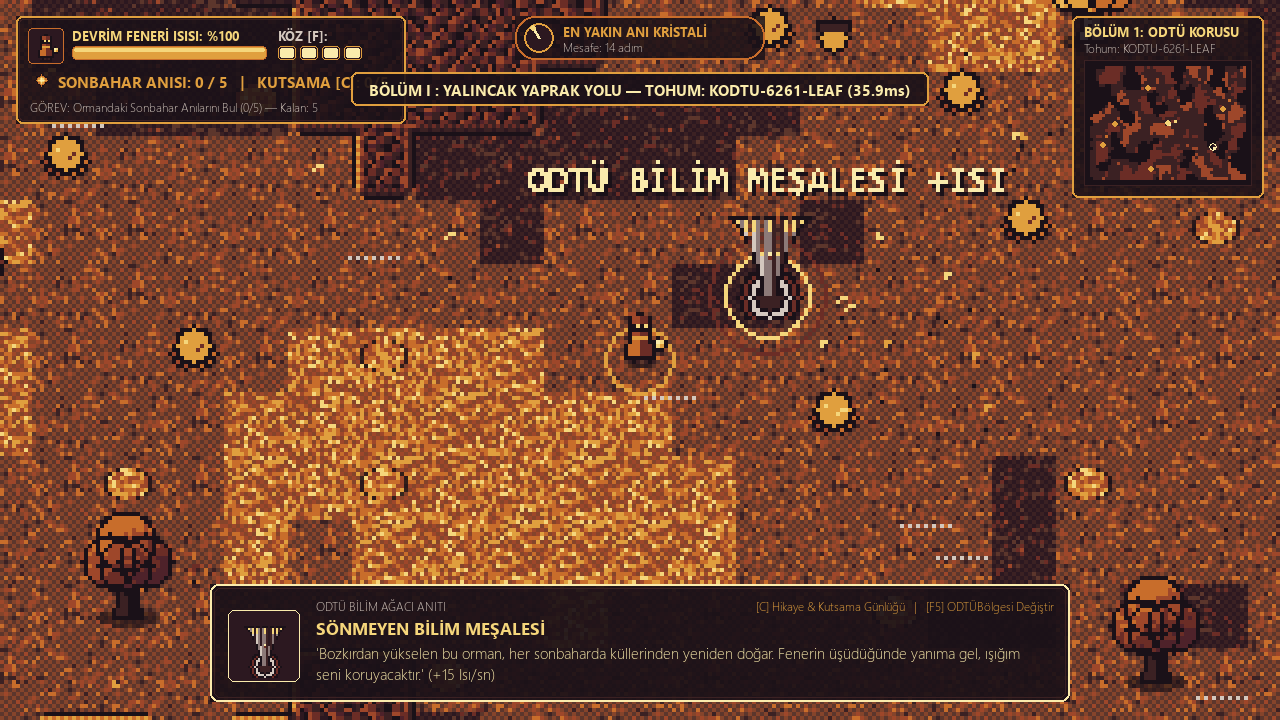
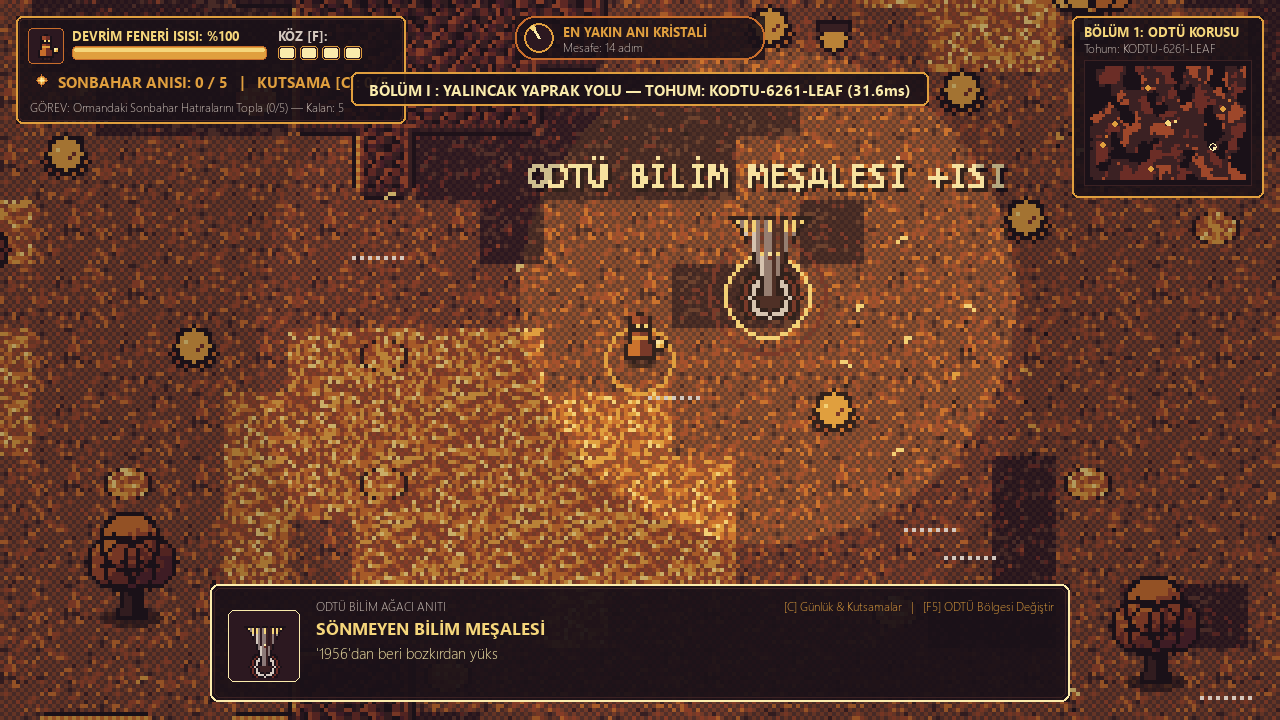
feat(narrative-lighting): typewriter dialogue, rich ODTÜ lore, boss encounters & dynamic lantern vignette

diff --git a/src/core/story.py b/src/core/story.py
@@ -21,51 +21,67 @@ class DialogueEntry:
     speaker: str
     title: str
     text: str
-    duration: float = 6.5
+    duration: float = 7.0
     accent_type: str = "gold"  # 'gold', 'birch', 'crimson'
+    avatar_key: str = "player"  # 'bilim_agaci', 'relic', 'campfire', 'player', 'warden'
+    chars_revealed: int = 0
+    typewriter_speed: float = 45.0  # characters per second
 
 
 CHAPTER_INFO: Dict[int, Tuple[str, str, str]] = {
     1: (
         "BÖLÜM I : YALINCAK YAPRAK YOLU",
-        "Bozkır ayazı ODTÜ ormanına erken çöktü. Bilim Ağacı'nın meşalesinden aldığın "
-        "ışıkla, her adımda yeniden şekillenen koruda kaybolmuş 5 Sonbahar Anısını bul.",
-        "Görev: 5 Sonbahar Anısını (Kristal) topla ve Kadim Tapınağa [E] ulaş.",
+        "1956'dan beri bozkırdan ellerle yeşertilen ulu ODTÜ ormanına ansızın dondurucu bir alacakaranlık sisi çöktü. "
+        "Yalıncak patikasında yapraklar hızla dökülürken, Bilim Ağacı'nın kadim meşalesinden aldığın köz feneriyle "
+        "ormanın dağılmış 5 Sonbahar Hatırasını topla ve tapınağı uyandır.",
+        "Görev: 5 Sonbahar Hatırası Kristalini topla, fenerini sıcak tut ve Kadim Tapınağa [E] ulaş.",
     ),
     2: (
         "BÖLÜM II : EYMİR'İN SİSLİ KIYILARI",
-        "İlk koru yeniden ısındı! Şimdi Eymir'in sisli sularına inen prosedürel patikaları "
-        "ve ahşap köprüleri takip ederek unutulmuş hatıraları birleştir.",
-        "Görev: Sisli kıyılardaki 5 Sonbahar Anısını topla ve Tapınağı uyandır.",
+        "İlk korunun yaprakları ısındı! Şimdi Eymir Gölü'nün bataklık sazlıklarına ve prosedürel ahşap iskelelerine "
+        "inme vakti. Suyun üzerinde asılı kalan alacakaranlık fısıltılarına kulak ver; gölgeler soğuk üflerken "
+        "sadece köz fenerinin ışığı göl kıyısındaki kadim bilgiyi koruyabilir.",
+        "Görev: Eymir'in sisli kıyılarındaki 5 Sonbahar Hatırasını bul ve karanlık orbları yansıtarak tapınağı aç.",
     ),
     3: (
         "BÖLÜM III : DEVRİM KORUSU VE SONBAHAR KALBİ",
-        "Alacakaranlık muhafızları Kadim Tapınağın etrafında toplanıyor. Fenerinin "
-        "sonbahar ateşiyle gölgeleri dağıt ve ODTÜ Ormanı'na sıcaklığı geri getir!",
-        "Görev: Son 5 Sonbahar Anısını topla ve Sonbahar Kalbini mühürle.",
+        "Devrim Stadyumu'nun çam ve meşe korusuna ulaştın! Ormanın en kadim bekçisi Elder Stag Warden ve gölge ordusu, "
+        "Sonbaharın Son Işığı'nı bozkır ayazına hapsetmek üzere. Fenerinin tüm kutsamalarını birleştir, "
+        "son anıları mühürle ve ebedi sonbahar ahengini tüm kampüse geri kazandır!",
+        "Görev: Devrim Korusu'ndaki son 5 hatırayı birleştir, Orman Bekçisiyle yüzleş ve Sonbahar Kalbini yak.",
     ),
 }
 
-RELIC_STORY_FRAGMENTS: List[Tuple[str, str]] = [
+RELIC_STORY_FRAGMENTS: List[Tuple[str, str, str]] = [
     (
         "İLK TOHUMUN HATIRASI (Anı 1/5)",
-        "1960'ların bozkırında toprağa düşen ilk fidanın yaprağı... Fenerin daha parlak yanıyor!",
+        "1956 güzünde bozkır rüzgarına emanet edilen ilk meşe palamudunun anısı... "
+        "'Bir fidan bin inançtır.' Fenerinin alevi pas rengi kıvılcımlarla parıldadı!",
+        "bilim_agaci",
     ),
     (
-        "YALINCAK RÜZGARININ MELODİSİ (Anı 2/5)",
-        "Sarı huş yapraklarının rüzgarda fısıldadığı eski bir öğrenci türküsü yankılandı.",
+        "YALINCAK RÜZGARININ TÜRKÜSÜ (Anı 2/5)",
+        "Altın huş yapraklarının savrulurken söylediği eski bir öğrenci marşı kulaklarında yankılandı: "
+        "'Bu orman teslim olmaz, her sonbahar yeni bir bahara gebe kalır!' [Hız +%18]",
+        "relic",
     ),
     (
-        "EYMİR SABAH SİSİ (Anı 3/5)",
-        "Göl yüzeyinden yükselen kehribar rengi sabah buğusu, fenerinin çatlaklarını onardı.",
+        "EYMİR SİSİ VE BİLİM MEŞALESİ (Anı 3/5)",
+        "Göl yüzeyindeki kehribar rengi sabah buğusu, fenerinin çatlaklarını güneş ısıyla doldurdu. "
+        "Gölün derinliklerindeki su nilüferleri altın köz saçarak seni selamladı.",
+        "bilim_agaci",
     ),
     (
-        "DEVRİM MEŞALESİNİN KIVILCIMI (Anı 4/5)",
-        "Stadyum basamaklarında yankılanan coşku, karanlık orman gölgelerini geri püskürttü!",
+        "DEVRİM STADYUMU KIVILCIMI (Anı 4/5)",
+        "Tarihin taşa ve çime kazındığı basamaklardan yükselen sönmeyen inanç dalgası! "
+        "Fenerinden fırlayan Solar Ember mermileri artık 3'lü yaylım halinde gölgeleri yarıyor!",
+        "player",
     ),
     (
         "SONBAHARIN SON IŞIĞI (Anı 5/5)",
-        "Tüm Sonbahar Anıları birleşti! Artık Kadim Tapınağa [E] giderek yeni korunun kapısını açabilirsin.",
+        "Tüm parçalar birleşti! ODTÜ ormanının bozkıra karşı verdiği yarım asırlık direniş fenerinde vücut buldu. "
+        "Artık Kadim Tapınağa [E] dön ve yeni korunun gizemli geçidini sonsuzluğa aç!",
+        "relic",
     ),
 ]
 
@@ -107,6 +123,7 @@ class StoryManager:
         text: str,
         duration: float = 6.0,
         accent_type: str = "gold",
+        avatar_key: str = "player",
         once_key: Optional[str] = None,
     ) -> None:
         if once_key is not None:
@@ -119,30 +136,34 @@ class StoryManager:
             text=text,
             duration=duration,
             accent_type=accent_type,
+            avatar_key=avatar_key,
+            chars_revealed=0,
         )
         self.dialogue_timer = duration
 
     def on_relic_collected(self, current_count: int, total_count: int, boon_title: Optional[str] = None) -> None:
         idx = max(0, min(len(RELIC_STORY_FRAGMENTS) - 1, current_count - 1))
-        frag_title, frag_text = RELIC_STORY_FRAGMENTS[idx]
+        frag_title, frag_text, avatar = RELIC_STORY_FRAGMENTS[idx]
         if boon_title:
-            frag_text += f" [Yeni Kutsama: {boon_title}]"
+            frag_text += f" [Yeni ODTÜ Kutsaması: {boon_title}]"
         self.trigger_dialogue(
-            speaker=f"SONBAHAR ANISI ({current_count}/{total_count})",
+            speaker=f"SONBAHAR HATIRASI ({current_count}/{total_count})",
             title=frag_title,
             text=frag_text,
-            duration=6.5,
+            duration=7.2,
             accent_type="birch" if current_count >= total_count else "gold",
+            avatar_key=avatar,
         )
 
     def on_near_bilim_agaci(self) -> None:
         self.trigger_dialogue(
             speaker="ODTÜ BİLİM AĞACI ANITI",
             title="SÖNMEYEN BİLİM MEŞALESİ",
-            text="'Bozkırdan yükselen bu orman, her sonbaharda küllerinden yeniden doğar. "
-            "Fenerin üşüdüğünde yanıma gel, ışığım seni koruyacaktır.' (+15 Isı/sn)",
-            duration=6.0,
+            text="'1956'dan beri bozkırdan yükselen bu orman, her sonbaharda küllerinden yeniden doğar. "
+            "Fenerin üşüdüğünde yanıma gel; bilgi ve dayanışmanın meşalesi fenerini koruyacaktır.' (+15 Isı/sn)",
+            duration=6.5,
             accent_type="birch",
+            avatar_key="bilim_agaci",
             once_key="bilim_agaci_intro",
         )
 
@@ -150,21 +171,42 @@ class StoryManager:
         self.trigger_dialogue(
             speaker="ORMANCI KAMP ATEŞİ",
             title="SICAK KÖZ DURAĞI",
-            text="Çıtırdayan kestane dalları fenerinin ısısını yeniliyor. "
-            "Yolculuğa devam etmeden önce soluklanmak için güvenli bir nokta.",
-            duration=5.0,
+            text="Çıtırdayan kestane dalları ve meşe kökleri fenerinin ısısını tazeliyor. "
+            "Yalıncak ve Eymir yollarında ilerlemeden önce soluklanmak için güvenli bir sığınak.",
+            duration=5.5,
             accent_type="gold",
+            avatar_key="campfire",
             once_key="campfire_intro",
+        )
+
+    def on_boss_encounter(self) -> None:
+        self.trigger_dialogue(
+            speaker="KADİM GEYİK (ELDER STAG WARDEN)",
+            title="ORMANIN KORUYUCU RUHU",
+            text="'Bozkırın kış uykusu yaklaşırken közünü söndürmeyeceğim, onu sınayacağım! "
+            "Kılıcınla gölge kürelerimi yansıt ve sonbaharın ışığına layık olduğunu kanıtla!'",
+            duration=6.8,
+            accent_type="crimson",
+            avatar_key="warden",
+            once_key="boss_encounter",
         )
 
     def get_current_objective_text(self, relics_collected: int, total_relics: int) -> str:
         if relics_collected >= total_relics:
-            return "GÖREV: Tüm Anılar Toplandı! Pusulayı takip et ve Kadim Tapınakta [E] tuşuna bas."
+            return "GÖREV: Tüm Hatıralar Toplandı! Pusulayı takip et ve Kadim Tapınakta [E] ile yeni koruyu aç."
         rem = total_relics - relics_collected
-        return f"GÖREV: Ormandaki Sonbahar Anılarını Bul ({relics_collected}/{total_relics}) — Kalan: {rem}"
+        return f"GÖREV: Ormandaki Sonbahar Hatıralarını Topla ({relics_collected}/{total_relics}) — Kalan: {rem}"
 
     def update(self, dt: float) -> None:
         if self.dialogue_timer > 0.0:
             self.dialogue_timer = max(0.0, self.dialogue_timer - dt)
+            if self.active_dialogue is not None:
+                # Progressive typewriter reveal
+                tot_chars = len(self.active_dialogue.text)
+                if self.active_dialogue.chars_revealed < tot_chars:
+                    add = max(1, int(round(self.active_dialogue.typewriter_speed * dt)))
+                    self.active_dialogue.chars_revealed = min(
+                        tot_chars, self.active_dialogue.chars_revealed + add
+                    )
             if self.dialogue_timer <= 0.0:
                 self.active_dialogue = None

diff --git a/src/rendering/renderer.py b/src/rendering/renderer.py
@@ -329,16 +329,56 @@ class WorldRenderer:
                 if 0 <= fsx < NATIVE_WIDTH and 0 <= fsy < NATIVE_HEIGHT:
                     self.font.draw_text(canvas, ft.text, fsx, fsy - 14, ft.color, align_center=True)
 
-        # 6. Subtle Drifting Autumn Mist (#D4C8BE) wisps near top/bottom edges
+        # 6. Dynamic Lantern Vignette & Atmospheric Autumn Lighting Pass
+        self._render_autumn_lantern_vignette(canvas, camera, player, world, time_sec)
+
+        # 7. Subtle Drifting Autumn Mist (#D4C8BE) wisps near top/bottom edges
         self._render_autumn_mist_wisps(canvas, camera.x, camera.y, time_sec)
 
-        # 7. If [F2] Bitmask & Grid Debug is active, render crisp grid, chunk bounds, bitmask IDs & colliders
+        # 8. If [F2] Bitmask & Grid Debug is active, render crisp grid, chunk bounds, bitmask IDs & colliders
         if debug_mode == DEBUG_BITMASK_GRID:
             self._render_f2_bitmask_grid_overlay(
                 canvas, world, camera, spatial_hash, player, enemies, visible_props, x0, y0, x1, y1
             )
 
         self.last_draw_calls = draw_calls
+
+    def _render_autumn_lantern_vignette(
+        self,
+        canvas: pygame.Surface,
+        camera: PixelCamera,
+        player: Player,
+        world: WorldData,
+        time_sec: float,
+    ) -> None:
+        """
+        Applies a modern cinematic autumn lighting vignette with a warm lantern glow
+        centered on the player and structures (Bilim Ağacı & Campfire), transitioning
+        toward atmospheric Deep Void (#1A1118) and Plum Shadow (#2C1820) at viewport edges.
+        """
+        vignette = pygame.Surface((NATIVE_WIDTH, NATIVE_HEIGHT), pygame.SRCALPHA)
+        # Deep atmospheric edge shadows
+        vignette.fill((*DEEP_VOID, 78))
+
+        # Cut out soft warm radial halos around light sources
+        pl_sx, pl_sy = camera.world_to_screen(player.x * TILE_SIZE, player.y * TILE_SIZE)
+        halo_radius = int(round(56.0 + 4.0 * math.sin(time_sec * 3.5)))
+        # Warm inner glow around player
+        pygame.draw.circle(vignette, (*PALE_SUNBEAM, 0), (pl_sx, pl_sy - 4), halo_radius)
+        pygame.draw.circle(vignette, (*HARVEST_GOLD, 25), (pl_sx, pl_sy - 4), halo_radius + 18)
+        pygame.draw.circle(vignette, (*PLUM_SHADOW, 55), (pl_sx, pl_sy - 4), halo_radius + 36)
+
+        # Warm halos around Bilim Ağacı and Campfires
+        for st in world.structures:
+            st_sx, st_sy = camera.world_to_screen(
+                (st.tile_x + 0.5) * TILE_SIZE, (st.tile_y + 0.5) * TILE_SIZE
+            )
+            if -30 <= st_sx <= NATIVE_WIDTH + 30 and -30 <= st_sy <= NATIVE_HEIGHT + 30:
+                rad = 48 if st.structure_type == "bilim_agaci" else 36
+                pygame.draw.circle(vignette, (*PALE_SUNBEAM, 0), (st_sx, st_sy), rad)
+                pygame.draw.circle(vignette, (*HARVEST_GOLD, 30), (st_sx, st_sy), rad + 14)
+
+        canvas.blit(vignette, (0, 0))
 
     def _draw_ember_sweep(
         self,

diff --git a/src/ui/modern_overlay.py b/src/ui/modern_overlay.py
@@ -352,12 +352,15 @@ class ModernStoryOverlay:
         pygame.draw.rect(box, WITHERED_BARK, (4, 4, dw - 8, dh - 8), 1, border_radius=6)
 
         # Choose speaker pixel-art portrait
-        if "BİLİM AĞACI" in dlg.speaker:
+        avatar_k = getattr(dlg, "avatar_key", "player")
+        if avatar_k == "bilim_agaci" or "BİLİM AĞACI" in dlg.speaker:
             raw_icon = self.assets.bilim_agaci_surf
-        elif "ANISI" in dlg.speaker:
+        elif avatar_k == "relic" or "HATIRA" in dlg.speaker or "ANISI" in dlg.speaker:
             raw_icon = self.assets.entity_surfaces[("relic", 0)]
-        elif "KAMP" in dlg.speaker:
+        elif avatar_k == "campfire" or "KAMP" in dlg.speaker:
             raw_icon = self.assets.campfire_frames[0]
+        elif avatar_k == "warden" or "GEYİK" in dlg.speaker:
+            raw_icon = self.assets.entity_surfaces[("warden", 0)]
         else:
             raw_icon = self.assets.player_frames_right[0]
 
@@ -372,13 +375,15 @@ class ModernStoryOverlay:
         box.blit(lbl_spk, (106, 14))
         box.blit(lbl_ttl, (106, 32))
 
-        # Wrapped narrative lines
-        wrapped = _wrap_text(dlg.text, self.f_body, dw - 130)
+        # Typewriter revealed narrative lines
+        visible_chars = getattr(dlg, "chars_revealed", len(dlg.text))
+        visible_text = dlg.text[:visible_chars]
+        wrapped = _wrap_text(visible_text, self.f_body, dw - 130)
         for i, line in enumerate(wrapped[:2]):
             l_surf = self.f_body.render(line, True, PALE_SUNBEAM)
             box.blit(l_surf, (106, 58 + i * 21))
 
-        hint = self.f_tiny.render("[C] Hikaye & Kutsama Günlüğü   |   [F5] ODTÜBölgesi Değiştir", True, HARVEST_GOLD)
+        hint = self.f_tiny.render("[C] Günlük & Kutsamalar   |   [F5] ODTÜ Bölgesi Değiştir", True, HARVEST_GOLD)
         box.blit(hint, (dw - hint.get_width() - 16, 14))
 
         screen.blit(box, (dx, dy))

diff --git a/src/main.py b/src/main.py
@@ -620,10 +620,12 @@ class AutumnProcGenGame:
                     self.spawn_floating_text(item.x, item.y, "+10 ISI", HARVEST_GOLD)
                     self.sound.play("harvest_chime")
 
-        # Update Enemies & check player contact
+        # Update Enemies & check player contact & boss encounter dialogue
         for enemy in self.enemies:
             if not enemy.alive:
                 continue
+            if enemy.kind == "warden" and math.hypot(self.player.x - enemy.x, self.player.y - enemy.y) <= 8.5:
+                self.story.on_boss_encounter()
             enemy.update(
                 dt,
                 self.player.x,

diff --git a/README.md b/README.md
@@ -253,21 +253,23 @@ Haritadaki her **Hasat Reliği (`Harvest Relic`)** toplandığında (veya test/s
 
 KODTÜ yarışmasının **Pixelated**, **Sonbahar** ve **Procedural Generation** kısıtlamalarına tam bağlı kalınırken, oyun deneyimini hantal retro HUD kutularından kurtarıp **çağdaş, modern ve sade bir anlatı oyununa** dönüştüren hibrit bir mimari geliştirdik:
 
-1. **🏛 3 Aşamalı ODTÜ Hikaye Bölümleri (`src/core/story.py`):**
-   - **Bölüm I: Yalıncak Yaprak Yolu (Koru 1):** Bozkırın kalbinde Devrim Feneri'nin ilk kıvılcımı parlar. Kızıl yaprakların altında ODTÜ Bilim Ağacı Anıtı'na ulaşın ve ormanın uyuyan anı kristallerini uyandırın.
-   - **Bölüm II: Eymir'in Sisli Kıyıları (Koru 2):** Sislerin arasından yükselen ahşap iskeleler ve su birikintileri. Kadim meşelerin fısıltılarını dinleyerek karanlık alacakaranlık yaratıklarını savuşturun.
-   - **Bölüm III: Devrim Korusu ve Sonbahar Kalbi (Koru 3+):** Devrim Stadyumu'nun ulu korusunda Elder Stag Warden ile yüzleşin ve Sonbaharın Son Işığı'nı sonsuzluğa taşıyın.
-2. **💬 Piksel-Portreli Türkçe Diyalog Kutusu:**
-   - Ekranın alt-ortasında konuşmacıya özel `64×64` piksel-sanatı portre ikonları (**ODTÜ Bilim Ağacı**, **Sonbahar Anısı Kristali**, **Ormancı Kamp Ateşi**, **Muhafız Ekin**).
-   - Akıcı Türkçe metinler, harf kaydırma ve açık yönlendirmeler.
-3. **🧭 Üst-Orta Dinamik Pusula Kapsülü (Compass Pill):**
-   - Oyuncuyu haritada kaybolmaktan kurtaran minimalist navigasyon kapsülü: En yakın **Sonbahar Anısı Kristali** veya **Kadim Tapınak** yönünü ok ile ve gerçek adım mesafesiyle (`Mesafe: 14 adım`) anlık gösterir.
-4. **📊 Sol-Üst Sadeleştirilmiş Durum & Görev Kartı:**
+1. **🏛 3 Aşamalı Zengin ODTÜ Hikaye Bölümleri (`src/core/story.py`):**
+   - **Bölüm I: Yalıncak Yaprak Yolu (Koru 1):** 1956'dan beri bozkırdan ellerle yeşertilen ulu ODTÜ ormanına çöken alacakaranlık ayazı. Bilim Ağacı'nın meşalesinden Devrim Feneri'ni yakarak ormanın dağılmış 5 Sonbahar Hatırasını kurtarın.
+   - **Bölüm II: Eymir'in Sisli Kıyıları (Koru 2):** Eymir Gölü'nün sazlıklarına ve prosedürel ahşap iskelelerine inen patikalar. Gölgelerin fısıltılarını kılıç darbeleriyle geri püskürtün ve gölün kadim bilgisini tapınağa taşıyın.
+   - **Bölüm III: Devrim Korusu ve Sonbahar Kalbi (Koru 3+):** Devrim Stadyumu'nun ulu korusunda Ormanın Koruyucu Ruhu **Kadim Geyik (Elder Stag Warden)** ile yüzleşin, gölge kürelerini yansıtarak Sonbahar Kalbini sonsuzluğa mühürleyin!
+2. **💬 Daktilo Efektli (Typewriter) Piksel-Portreli Türkçe Diyalog Sistemi:**
+   - Ekranın alt-ortasında konuşmacıya özel `64×64` piksel-sanatı portre ikonları (**ODTÜ Bilim Ağacı Anıtı**, **Sonbahar Hatırası Kristali**, **Ormancı Kamp Ateşi**, **Genç Muhafız Ekin**, **Kadim Geyik Warden**).
+   - *Celeste* ve *Eastward* tarzı harf harf açılan akıcı Türkçe daktilo (Typewriter) animasyonu.
+3. **🕯 Dinamik Sonbahar Fener Vinyeti & Işıklandırma Geçişi (`src/rendering/renderer.py`):**
+   - Oyuncunun taşıdığı fener, ODTÜ Bilim Ağacı Anıtı ve Kamp Ateşleri etrafında dinamik dalgalanan sıcak altın (`#FAEBAC` / `#E09F3E`) auralar yayılırken, ekranın kenarları doğal derinlik katan mor-çivit gölgelere (`#1A1118` / `#2C1820`) kavuşur.
+4. **🧭 Üst-Orta Dinamik Pusula Kapsülü (Compass Pill):**
+   - Minimalist navigasyon kapsülü: En yakın **Sonbahar Hatırası** veya **Kadim Tapınak** yönünü ok ile ve gerçek adım mesafesiyle (`Mesafe: 14 adım`) anlık gösterir.
+5. **📊 Sol-Üst Sadeleştirilmiş Durum & Görev Kartı:**
    - **Devrim Feneri Isısı:** Yüzde çubuğuyla temiz görsel geribildirim.
    - **Köz Mermisi [F]:** 4 şarj hücresi ile anlık mermi durumu.
-   - **Sonbahar Anısı:** `0 / 5` ilerleme göstergesi ve anlık Türkçe tek cümlelik net görev özeti: `GÖREV: Ormandaki Sonbahar Anılarını Bul (0/5) — Kalan: 5`.
-5. **📜 İnteraktif Hikaye Başlangıç Kartı (`[H]` / Enter):**
-   - Oyuna başlarken hikaye arka planını, fener mekaniğini ve 3 adımlı basit oyun amacını özetleyen estetik kart. İstendiğinde **`[H]`** tuşuyla yeniden açılabilir.
+   - **Sonbahar Hatırası:** `0 / 5` ilerleme göstergesi ve anlık Türkçe tek cümlelik net görev özeti.
+6. **📜 İnteraktif Hikaye Başlangıç Kartı (`[H]` / Enter):**
+   - Hikaye arka planını, fener mekaniğini ve 3 adımlı basit oyun amacını özetleyen estetik kart. İstendiğinde **`[H]`** tuşuyla yeniden açılabilir.
 
 ---
 
